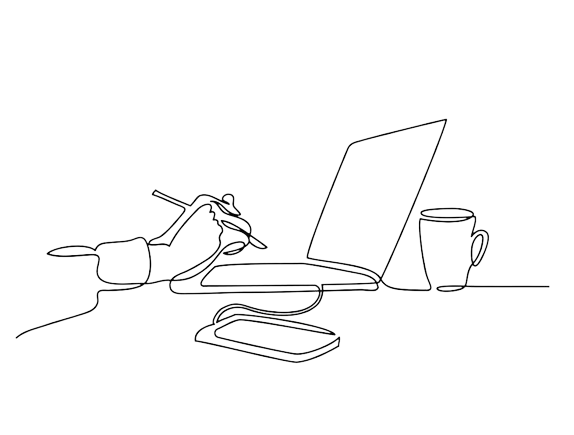
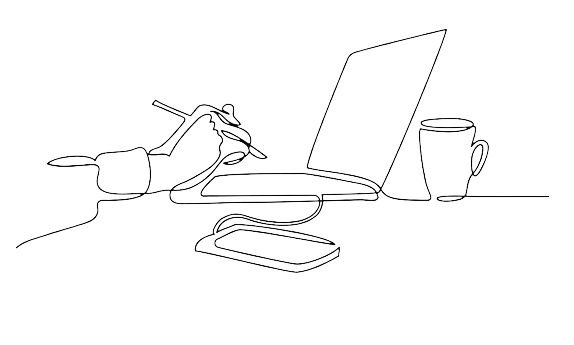
blabla

diff --git a/jogo.css b/jogo.css
@@ -1,13 +1,16 @@
 @import url('https://fonts.googleapis.com/css2?family=Fredoka:wght@400;500;600&family=Mooli&family=Poppins:ital,wght@0,100;0,200;0,300;0,400;0,500;0,600;0,700;0,800;0,900;1,100;1,200;1,300;1,400;1,500;1,600;1,700;1,800;1,900&display=swap');
 
-
+*{
+    box-sizing: border-box;
+}
 strong{
     font-weight: 200;
 }
 body{
     background: rgb(238,174,202);
     background: radial-gradient(circle, rgba(238,174,202,1) 0%, rgba(148,187,233,1) 100%);
-    height: 156vh;
+    height: 200vh;
+    
 }
 
 #frase{
@@ -16,26 +19,142 @@ body{
     justify-content: space-between;
     padding-right: -10%;
     margin-top: 8%;
+
     
 }
 
 h1{
     display: flex;
-    margin-left: 20%;
+    margin-left: 15%;
     font-size: 50px;
     font-family: 'Poppins';
     flex-direction: column;
-    color: black
-;
-    
+    color: black;
+    justify-content: center;
+}
+
+h3{
+    display: flex;
+    justify-content: center;
+    word-spacing: 8px;
+    margin-top: 6%;
+}
+
+.fre{
+display: flex;
+gap: 5%;
+
+}
+
+.numeroz{
+    display: flex;
+    text-align: center;
+    margin-right: 15%;
+    margin-top: 8%;
+    font-size: 75px;
+    color: rgb(0, 0, 0);
 }
 
 #img{
-    height: 40%;
-    width: 40%;
-    display: flex;
+   margin-right: 10%;
+   margin-top: 4%;
+}
+
+#relogio{
+    height: 55vh;
+    width: 50vw;
+    margin-left: 25%;
     margin-top: 5%;
+    border-radius: 3%;
+    border: 3px solid rgba(255, 255, 255, 0.361);
+    background-color:rgba(0, 0, 0, 0.099)
 
     
+}
+
+.foco{
+    background-color: transparent;
+    border: 0cap;
+    font-size: 16px;
+}
+
+.long{
+    background-color: transparent;
+    border: 0cap;
+    font-size: 16px;
+}
+
+.short{
+    background-color: transparent;
+    border: 0cap;
+    font-size: 16px;
+}
+
+button{
+    font-family: 'Poppins';
+}
+
+.ok{
+    background-color: rgba(0, 0, 0, 0.986);
+    color: antiquewhite;
+    font-size: 15px;
+    border: 0cap;
+    width: 120px;
+    height: 30px;
+    border-radius: 7px;
+
+}
+
+#botao{
+    display: flex;
+    justify-content: center;
+    align-items: center;
+    margin-top: 4%;
     
+  
+}
+
+.form-check{
+    display: flex;
+    justify-content: center;
+    gap: 5px;
+    font-family: 'Poppins';
+
+}
+
+hr{
+    width: 80%;
+}
+
+.linha{
+    width: 100%;
+    height: 20px;
+    display: flex;
+    justify-content: center;
+    align-items: center;
+    margin-top: 5%;
+}
+
+.listat{
+    display: flex;
+    justify-content: center;
+    align-items: center;
+    margin-top: 1%;
+    font-family: 'Poppins';
+}
+
+.add{
+ background-color: black;
+  color: white;
+  font-size: 15px;
+  border: 0cap;
+  border-radius: 7px;
+font-size: 20px;
+}
+
+#adicionar{
+display: flex;
+  justify-content: center;
+  align-items: center;
+margin-top: 2%;
 }

diff --git a/index.html b/index.html
@@ -1,20 +1,67 @@
 <!DOCTYPE html>
 <html lang="pt-br">
+
 <head>
     <meta charset="UTF-8">
     <meta name="viewport" content="width=device-width, initial-scale=1.0">
     <title>infinite level</title>
+    <link href="https://cdn.jsdelivr.net/npm/bootstrap@5.3.3/dist/css/bootstrap.min.css" rel="stylesheet"
+        integrity="sha384-QWTKZyjpPEjISv5WaRU9OFeRpok6YctnYmDr5pNlyT2bRjXh0JMhjY6hW+ALEwIH" crossorigin="anonymous">
+    <script src="https://cdn.jsdelivr.net/npm/bootstrap@5.3.3/dist/js/bootstrap.bundle.min.js"
+        integrity="sha384-YvpcrYf0tY3lHB60NNkmXc5s9fDVZLESaAA55NDzOxhy9GkcIdslK1eN7N6jIeHz"
+        crossorigin="anonymous"></script>
     <link rel="stylesheet" href="jogo.css">
 </head>
+
 <body>
-   
+
     <div id="frase">
-     <h1 class="title"><strong class="title">Eleve seu desempenho,</strong>focalize no essencial.</h1>
-    <div id="img">
-        <img src="/imagem/imgjogando.jpg" alt="'pessoa jogando">
-         </div>
+        <h1 class="title"><strong class="title">Eleve seu desempenho,</strong>focalize no essencial.</h1>
+        <div id="img">
+            <img src="imagem/img.png" alt="'pessoa jogando">
+        </div>
     </div>
-   
-    <div id="relogio"></div>
+
+    <div id="relogio">
+        <div id="cima">
+            <h3 class="fre">
+                <button data-contexto="foco" class="foco">Concentração</button>
+                <button data-contexto="short" class="short">Pausa breve </button>
+                <button data-contexto="long" class="long">Repouso prolongado </button>
+            </h3>
+        </div>
+
+        <div id="numero">
+            <h1 class="numeroz">
+                25:00
+            </h1>
+        </div>
+
+        <div class="form-check form-switch">
+            <input class="form-check-input" type="checkbox" id="flexSwitchCheckDefault">
+            <label class="form-check-label" for="flexSwitchCheckDefault">Música</label>
+        </div>
+
+        <div id="botao">
+            <button data-contexto="play" class="ok">Começar</button>
+        </div>
+
+    </div>
+
+    <div class="linha">
+        <hr>
+    </div>
+
+    <div class="lista">
+        <h4 class="listat">Lista de tarefas:</h4>
+    </div>
+    </div>
+
+    <div id="adicionar">
+        <button class="add"> Adicionar tarefas +</button>
+    </div>
+
+
 </body>
+
 </html>
